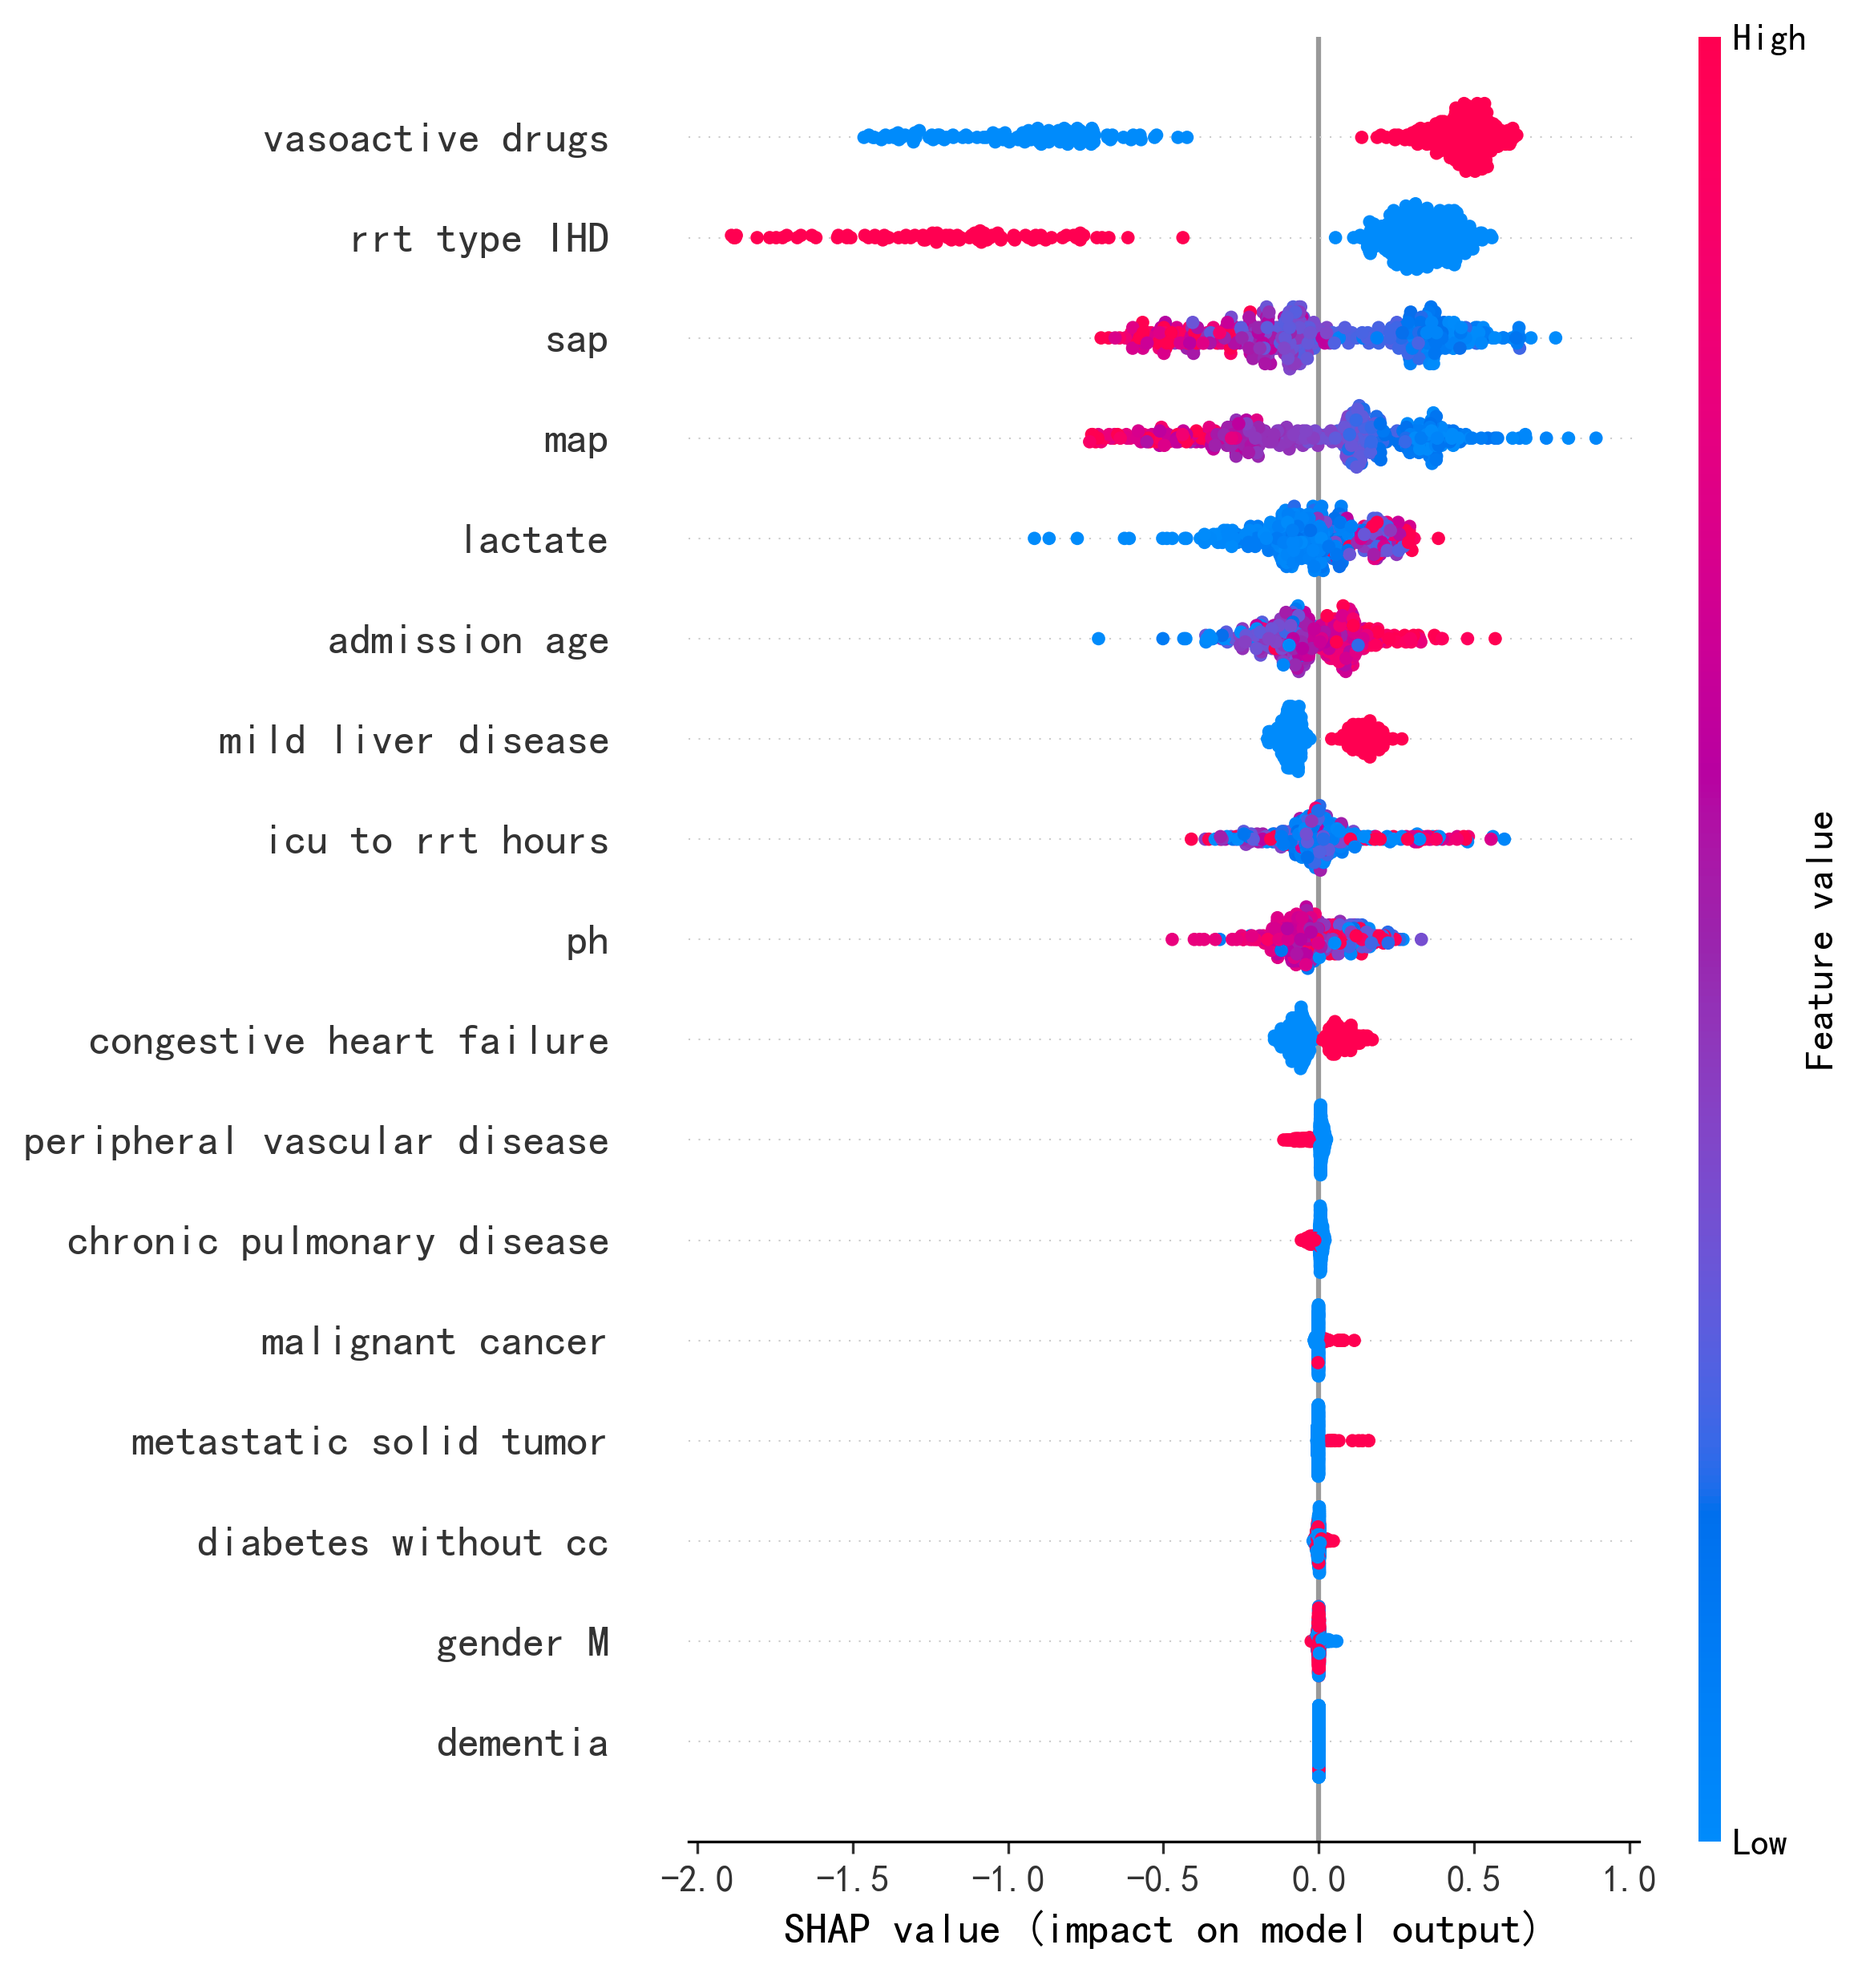
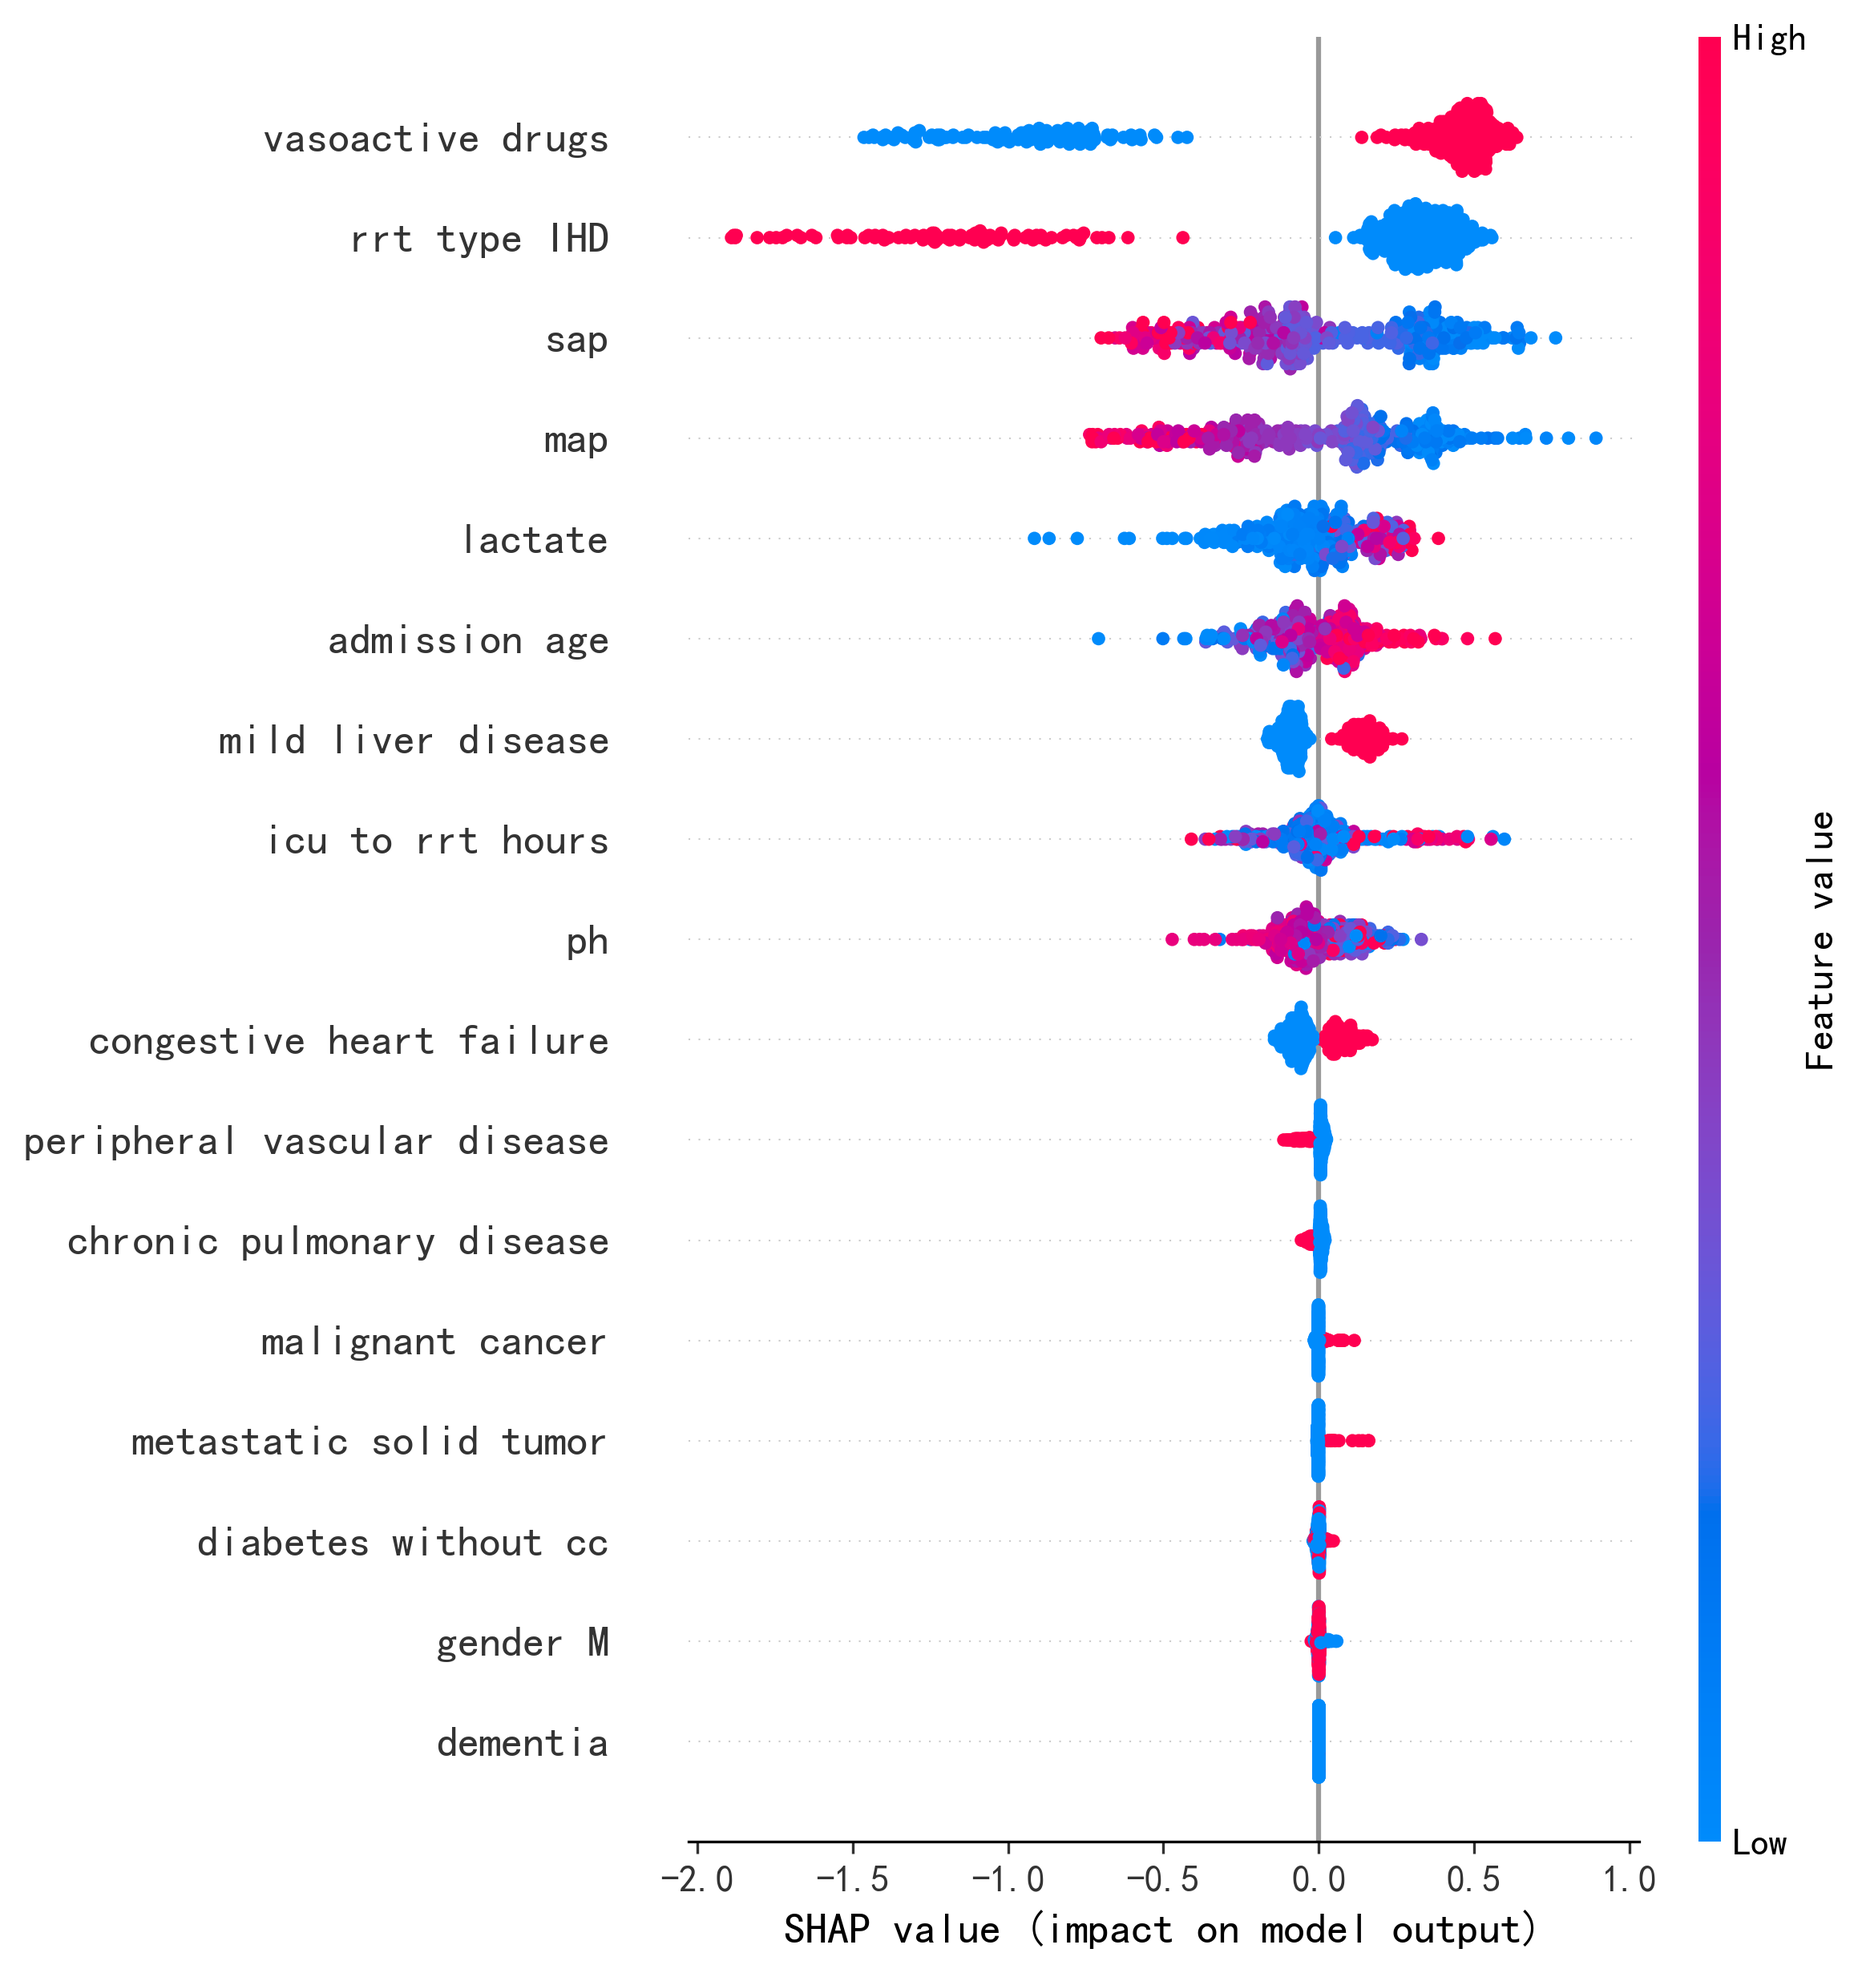
更新rrt_type的bug

Changed region(s): [[0.5889, 0.1543, 0.7749, 0.3396], [0.6509, 0.4013, 0.7749, 0.4939], [0.6819, 0.7717, 0.7129, 0.8026]]

diff --git a/app.py b/app.py
@@ -72,6 +72,17 @@ def preprocess_data(data, feature_names):
 
     # 对分类变量进行独热编码
     categorical_cols = ['gender', 'rrt_type']
+
+    # 为了确保 get_dummies 在处理单行数据时能够正确工作（尤其是在 Streamlit 中），
+    # 我们需要将分类列转换为 Pandas 的 Categorical 类型，并显式指定所有可能的类别。
+    # 这样可以防止 get_dummies 因只看到一个类别而错误地将其丢弃（drop_first=True 的行为）。
+    if 'gender' in data.columns:
+        # 假设训练时 '女' 是基于字母/Unicode顺序被丢弃的基准类别
+        data['gender'] = pd.Categorical(data['gender'], categories=['女', '男'])
+    if 'rrt_type' in data.columns:
+        # 假设训练时 'CRRT' 是基于字母顺序被丢弃的基准类别
+        data['rrt_type'] = pd.Categorical(data['rrt_type'], categories=['CRRT', 'IHD'])
+
     data = pd.get_dummies(data, columns=categorical_cols, drop_first=True)
     
     # 使用 reindex 保证特征列完全对齐
@@ -118,7 +129,7 @@ def sidebar_input_features(feature_names):
     # 定义每个特征的输入参数
     input_params = [
         ('gender', '性别', 'selectbox', ('男', '女'), None, None, None),
-        ('admission_age', '年龄(岁)', 'slider', 18, 100, 60, 1),
+        ('admission_age', '年龄(岁)', 'slider', 18, 100, 100, 1),
         ('congestive_heart_failure', '合并充血性心力衰竭', 'selectbox', ('是', '否'), None, None, None),
         ('peripheral_vascular_disease', '合并外周血管疾病', 'selectbox', ('是', '否'), None, None, None),
         ('dementia', '合并痴呆', 'selectbox', ('是', '否'), None, None, None),
@@ -136,11 +147,13 @@ def sidebar_input_features(feature_names):
     ]
     
     # 创建输入组件
-    for name, display, type, options, min_val, max_val, step in input_params:
+    for name, display, type, p1, p2, p3, p4 in input_params:
         if type == 'slider':
-            user_inputs[name] = st.sidebar.slider(display, min_value=min_val, max_value=max_val, value=options, step=step)
+            # p1: min_val, p2: max_val, p3: default_val, p4: step
+            user_inputs[name] = st.sidebar.slider(display, min_value=p1, max_value=p2, value=p3, step=p4)
         elif type == 'selectbox':
-            user_inputs[name] = st.sidebar.selectbox(display, options)
+            # p1: options
+            user_inputs[name] = st.sidebar.selectbox(display, p1)
     
     # 添加计算的时间差
     user_inputs['icu_to_rrt_hours'] = icu_to_rrt_hours
@@ -233,12 +246,18 @@ def display_local_explanations(model, user_input_df, X_train):
         # 从内存中读取HTML并显示
         components.html(shap_html_path.getvalue(), height=200)
         
+        # 显示SHAP图相关的精确概率值，以验证输入变化
+        prediction_proba = model.predict_proba(user_input_df)[0][1]
+        st.write(f"**当前输入对应的预测概率:** `{prediction_proba:.4f}`")
+        st.write(f"**模型的基准概率 (expected value):** `{explainer.expected_value:.4f}`")
+
         st.info('''
         **SHAP力图说明:**
-        - 显示各特征如何将预测值从基础值推至最终预测值
-        - 红色特征增加低血压风险
-        - 蓝色特征降低低血压风险
-        - 箭头长度表示影响大小
+        - **f(x)**: 模型对当前输入的原始输出值 (log-odds)。
+        - **base value**: 模型的基准预测值，代表未使用任何特征信息时的平均预测。
+        - **红色特征**: 将预测结果推向更高值的因素 (增加低血压风险)。
+        - **蓝色特征**: 将预测结果推向更低值的因素 (降低低血压风险)。
+        - 箭头的长度表示该特征影响的大小。
         ''')
     except Exception as e:
         st.error(f"生成SHAP力图时出错: {e}")

diff --git a/train.py b/train.py
@@ -75,6 +75,27 @@ def train_and_save_model(train_data_path: str, test_data_path: str, model_output
         print(f"测试数据处理出错: {e}")
         return
 
+    # 获取训练和测试数据的所有列名
+    train_cols = set(train_data.columns)
+    test_cols = set(test_data.columns)
+
+    # 找出只在训练集中存在的列，并添加到测试集中，填充0
+    missing_in_test = train_cols - test_cols
+    if 'hypotension' in missing_in_test:
+        missing_in_test.remove('hypotension')
+    for col in missing_in_test:
+        test_data[col] = 0
+
+    # 找出只在测试集中存在的列，并添加到训练集中，填充0
+    missing_in_train = test_cols - train_cols
+    if 'hypotension' in missing_in_train:
+        missing_in_train.remove('hypotension')
+    for col in missing_in_train:
+        train_data[col] = 0
+            
+    # 保证测试集和训练集的列顺序完全一致
+    test_data = test_data[train_data.columns]
+
     # 构建特征列表
     # 注意：这里的特征列表是基于预处理后的列名
     binary_cols = [
@@ -84,7 +105,7 @@ def train_and_save_model(train_data_path: str, test_data_path: str, model_output
     ]
     feature_cols = [
         'admission_age', 'ph', 'lactate', 'icu_to_rrt_hours', 'map', 'sap'
-    ] + binary_cols + [col for col in train_data.columns if 'gender_' in col or 'rrt_type_' in col]
+    ] + binary_cols + sorted([col for col in train_data.columns if 'gender_' in col or 'rrt_type_' in col])
     
     # 确保训练集和测试集的列一致
     # 获取训练数据独热编码后的所有特征列
